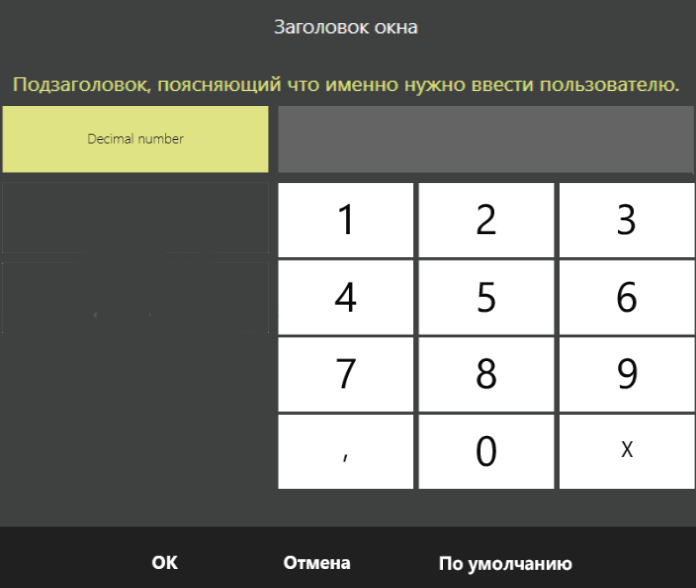
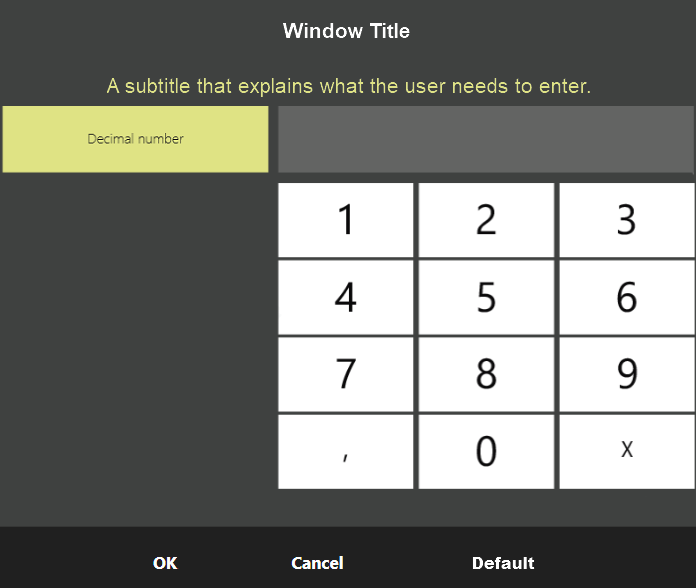
v8

diff --git a/v8/en/FaultTolerance.md b/v8/en/FaultTolerance.md
@@ -1,30 +1,29 @@
 ---
-title: Отказоустойчивость
+title: Failover
 layout: default
 ---
 
-В версии V8Preview6 введена возможность контролирования состояния главного терминала(ГТ) группы и при необходимости передачи этой роли другому терминалу.
+The V8Preview6 version introduces the possibility to control the state of the Main Terminal (MT) of a group and, if needed, to transfer this role to another terminal.
 
-Нововведение состоит из следующих элементов:
+The innovation consists of the next elements:
 
-1.	Список резервных терминалов;
-2.	Отслеживание состояния главного терминала;
-3.	Возможность перенастраивать главный терминал через API.
+1.	A list of reserve terminals;
+2.	Tracking the status of the main terminal;
+3.	Possibility to recustomize the main terminal via API.
 
-Подробнее:
+More:
 
-1) В приложении iikoOffice в Настройках торгового предприятия => настройках группы можно задавать список резервных терминалов. Эти терминалы будут являться запасными терминалами, которые смогут принять на себя роль ГТ если это  будет необходимо. Форма для задания резервных терминалов выглядит следующим образом:
+1) In the Syrve Office application in Store Settings => Group Settings it is possible to set up a list of reserve terminals. These terminals will be the spare  terminals which can take over the role of the MT if needed. The form for set the reserve terminals is as follows:
 
 ![ext_number](../../img/faultTolerance/StandbyTerminalsWindow.png)
 
-В API в интерфейс [`ITerminalsGroup`](https://iiko.github.io/front.api.sdk/v8/html/T_Resto_Front_Api_Data_Organization_ITerminalsGroup.htm ) добавлен список [`StandbyTerminals`](https://iiko.github.io/front.api.sdk/v8/html/P_Resto_Front_Api_Data_Organization_ITerminalsGroup_StandbyTerminals.htm), который и содержит список резервных терминалов, заданных в iikoOffice. Чтобы получить информацию о текущей группе терминалов можно воспользоваться методом [`GetHostTerminalsGroup`](https://iiko.github.io/front.api.sdk/v8/html/M_Resto_Front_Api_IOperationService_GetHostTerminalsGroup.htm) или же подписаться на нотификацию [`TerminalsGroupChanged`](https://iiko.github.io/front.api.sdk/v8/html/P_Resto_Front_Api_INotificationService_TerminalsGroupChanged.htm).
+In API, in the [`ITerminalsGroup`](https://syrve.github.io/front.api.sdk/v8/html/T_Resto_Front_Api_Data_Organization_ITerminalsGroup.htm ) interface, the [`StandbyTerminals`](https://syrve.github.io/front.api.sdk/v8/html/P_Resto_Front_Api_Data_Organization_ITerminalsGroup_StandbyTerminals.htm) list has been added, which contains the list of reserve terminals set in Syrve Office. To get information about the current group of terminals, it is possible to use the [`GetHostTerminalsGroup`](https://syrve.github.io/front.api.sdk/v8/html/M_Resto_Front_Api_IOperationService_GetHostTerminalsGroup.htm) method or subscribe to the [`TerminalsGroupChanged`](https://syrve.github.io/front.api.sdk/v8/html/P_Resto_Front_Api_INotificationService_TerminalsGroupChanged.htm).
 
-2) Каждый ведомый терминал (ВТ) отслеживает состояние соединения с ГТ и если состояние изменится, то терминал сообщит об этом. Для этого была добавлена новая нотификация [`ConnectionToMainTerminalChanged`](https://iiko.github.io/front.api.sdk/v8/html/P_Resto_Front_Api_INotificationService_ConnectionToMainTerminalChanged.htm). В этой нотификации передается состояние связи: true - соединение с ГТ установлено, false - соединение с ГТ потеряно.
+2) Each a Slave Terminal (ST) tracks the state of the connection to the MT and if the state has changed, the terminal will report it. For this purpose a new notification [`ConnectionToMainTerminalChanged`](https://syrve.github.io/front.api.sdk/v8/html/P_Resto_Front_Api_INotificationService_ConnectionToMainTerminalChanged.htm) was added. In this notification the connection state is transmitted: `true` - connection with the MT is established, `false` - connection with the MT is lost.
 
-3) В API введена новая операция [`ChangeGroupMainTerminal`](https://iiko.github.io/front.api.sdk/v8/html/M_Resto_Front_Api_IOperationService_ChangeGroupMainTerminal.htm), позволяющая менять ГТ. Для выполнения данной операция необходимо иметь право на проведение опасных операций([`F_DOP`](https://ru.iiko.help/articles/#!iikooffice-8-3/topic-745/q/%25D0%25BE%25D0%25BF%25D0%25B0%25D1%2581%25D0%25BD%25D1%258B%25D0%25B5%2520%25D0%25BE%25D0%25BF%25D0%25B5%25D1%2580%25D0%25B0%25D1%2586%25D0%25B8%25D0%25B8/qid/1738593/qp/1)) и передавать в качестве аргумента терминал, который является резервным. После выполнения данной операции переданный терминал становится ГТ, а бывший ГТ переходит в список резервных терминалов.
+3) A new operation [`ChangeGroupMainTerminal`](https://syrve.github.io/front.api.sdk/v8/html/M_Resto_Front_Api_IOperationService_ChangeGroupMainTerminal.htm)was implemented in the API, which allows to change MT. To run this operation it is needed to have the permission to run dangerous operations ([`F_DOP`](https://en.syrve.help/articles/#!office-8-5/topic-745)) and to transfer as argument a terminal, which is a reserve terminal. After this operation, the transferred terminal will be as MT, and the previous MT will be moved to the list of reserve terminals.
 
-
-Пример:
+Example:
 ```cs
 private static void ChangeGroupMainTerminal(IOperationService os)
 {
@@ -33,4 +32,4 @@ private static void ChangeGroupMainTerminal(IOperationService os)
 }
 ```
 
-На данный момент для пользования этим нововведением необходимо иметь лицензию 21053302. Также данная лицензия убирает 30-секундную задержку при перезагрузке iikoFront.
+At the moment, it is necessary to have license 21053302 in order to use this new feature. Also this license removes the 30-second delay when Syrve POS is rebooting.

diff --git a/v8/en/ViewManager.md b/v8/en/ViewManager.md
@@ -1,24 +1,23 @@
 ---
-title: Диалоговые окна
+title: Dialog windows
 layout: default
 ---
-### Диалог ввода числовых строк
-Начиная с версии V8, изменена структура класса настроек - [`ExtendedInputDialogSettings`](https://iiko.github.io/front.api.sdk/v8/html/T_Resto_Front_Api_UI_ExtendedInputDialogSettings.htm), который передается в качестве параметра в [`Диалоговое окно`](https://iiko.github.io/front.api.doc/v6/ru/ViewManager.html) - [`ShowExtendedInputDialog()`](https://iiko.github.io/front.api.sdk/v8/html/M_Resto_Front_Api_UI_IViewManager_ShowExtendedInputDialog.htm).
+### Numeric strings entry dialog
+Beginning with version V8, the structure of the settings class, [`ExtendedInputDialogSettings`](https://syrve.github.io/front.api.sdk/v8/html/T_Resto_Front_Api_UI_ExtendedInputDialogSettings.htm), has been changed and is transferred as a parameter to the [`Dialog window`](https://syrve.github.io/front.api.doc/v6/ru/ViewManager.html) - [`ShowExtendedInputDialog()`](https://syrve.github.io/front.api.sdk/v8/html/M_Resto_Front_Api_UI_IViewManager_ShowExtendedInputDialog.htm).
 
-[`ExtendedInputDialogSettings.EnableNumericString`](https://iiko.github.io/front.api.sdk/v7/html/P_Resto_Front_Api_UI_ExtendedInputDialogSettings_EnableNumericString.htm) заменен на [`NumericInputMode`](https://iiko.github.io/front.api.sdk/v8/html/T_Resto_Front_Api_UI_NumericInputMode.htm) который является типом `enum` состоящий из:
-- [`Disabled`](https://iiko.github.io/front.api.sdk/v8/html/T_Resto_Front_Api_UI_NumericInputMode.htm) - значение по умолчанию. Ввод числовых значений недоступен.
-- [`String`](https://iiko.github.io/front.api.sdk/v8/html/T_Resto_Front_Api_UI_NumericInputMode.htm) - ввод целых чисел.
-- [`Decimal`](https://iiko.github.io/front.api.sdk/v8/html/T_Resto_Front_Api_UI_NumericInputMode.htm) - ввод дробных чисел.
+[`ExtendedInputDialogSettings.EnableNumericString`](https://syrve.github.io/front.api.sdk/v7/html/P_Resto_Front_Api_UI_ExtendedInputDialogSettings_EnableNumericString.htm) is replaced by [`NumericInputMode`](https://syrve.github.io/front.api.sdk/v8/html/T_Resto_Front_Api_UI_NumericInputMode.htm), which is an `enum` type that consists of:
+- [`Disabled`](https://syrve.github.io/front.api.sdk/v8/html/T_Resto_Front_Api_UI_NumericInputMode.htm) - default value. Entering numeric values is not available.
+- [`String`](https://syrve.github.io/front.api.sdk/v8/html/T_Resto_Front_Api_UI_NumericInputMode.htm) - input integer numbers.
+- [`Decimal`](https://syrve.github.io/front.api.sdk/v8/html/T_Resto_Front_Api_UI_NumericInputMode.htm) - input fractional numbers.
  
-Для типа ввода дробных чисел [`Decimal`](https://iiko.github.io/front.api.sdk/v8/html/T_Resto_Front_Api_UI_NumericInputMode.htm) добавлены свойства:
-- [`MaxDecimalValue`](https://iiko.github.io/front.api.sdk/v8/html/P_Resto_Front_Api_UI_ExtendedInputDialogSettings_MaxDecimalValue.htm) - максимальное значение.
-- [`MinDecimalValue`](https://iiko.github.io/front.api.sdk/v8/html/P_Resto_Front_Api_UI_ExtendedInputDialogSettings_MinDecimalValue.htm) - минимальное значение.
-- [`DefaultDecimalValue`](https://iiko.github.io/front.api.sdk/v8/html/P_Resto_Front_Api_UI_ExtendedInputDialogSettings_DefaultDecimalValue.htm) - значение по умолчанию.
+For the input type of fractional numbers [`Decimal`](https://syrve.github.io/front.api.sdk/v8/html/T_Resto_Front_Api_UI_NumericInputMode.htm) properties have been added:
+- [`MaxDecimalValue`](https://syrve.github.io/front.api.sdk/v8/html/P_Resto_Front_Api_UI_ExtendedInputDialogSettings_MaxDecimalValue.htm) - maximum value.
+- [`MinDecimalValue`](https://syrve.github.io/front.api.sdk/v8/html/P_Resto_Front_Api_UI_ExtendedInputDialogSettings_MinDecimalValue.htm) - minimum value.
+- [`DefaultDecimalValue`](https://syrve.github.io/front.api.sdk/v8/html/P_Resto_Front_Api_UI_ExtendedInputDialogSettings_DefaultDecimalValue.htm) - default value.
 
-С помощью новых свойств можно задавать соответствующие ограничения для дробных чисел. 
+With the new properties, it is possible to set appropriate limits for fractional numbers.
 
-При выборе `String` или `Decimal` пользователю будет предложено ввести целые числа или числа с дробью. 
-В качестве поясняющего текста по дробным числам используется [`ExtendedInputDialogSettings.TabTitleNumericString`](https://iiko.github.io/front.api.sdk/v8/html/P_Resto_Front_Api_UI_ExtendedInputDialogSettings_TabTitleNumericString.htm).
+When selecting `String` or `Decimal`, the user will be offered to enter integers or fractions. [`ExtendedInputDialogSettings.TabTitleNumericString`](https://syrve.github.io/front.api.sdk/v8/html/P_Resto_Front_Api_UI_ExtendedInputDialogSettings_TabTitleNumericString.htm) is used as explanatory text for fractional numbers.
 
 ![ext_number](../../img/viewmanager/ext_decimal.png)
 
@@ -33,8 +32,8 @@ var settings = new ExtendedInputDialogSettings
 }
 
 var dialogResult = viewManager.ShowExtendedInputDialog(
-                "Заголовок окна", 
-                "Подзаголовок, поясняющий что именно нужно ввести пользователю.",
+                "Window Title", 
+                "A subtitle explaining exactly what the user needs to enter.",
                 settings) 
     as NumericStringInputDialogResult;
 if (dialogResult == null)

diff --git a/v6/en/Intro.md b/v6/en/Intro.md
@@ -47,7 +47,7 @@ When handling `INotificationService`, Syrve POS is the action initiator, whereas
 
 ## Examples ##
 
-Among other things, the SDK includes several source code [plugin examples](https://github.com/syrve/front.api.sdk/tree/master/sample/v6/). We recommend that you get familiar with them before you start developing your own plugins.
+Among other things, the SDK includes several source code [plugin examples](https://github.com/syrve/front.api.sdk/tree/main/sample/v7). We recommend that you get familiar with them before you start developing your own plugins.
 
 ### SamplePlugin ###
 
